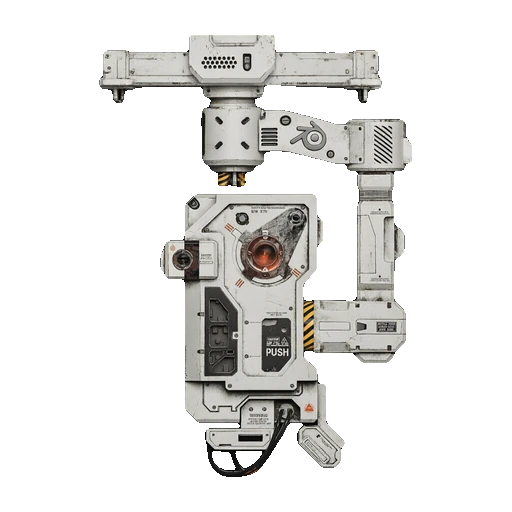
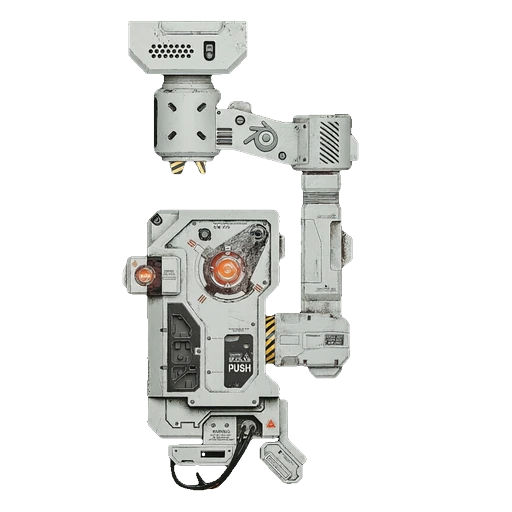
feat(moss): 真正的关节转动（同机位三帧硬切换）
- 用一张三格 sprite 生成同机位、同比例、只有机械臂角度不同的三帧（收拢/抬高/前伸）
- rembg 抠图后用三格并集 bbox 统一裁切，保证像素级对齐
- 空闲态 2.3s 在收拢/抬高之间硬切换（无淡入，不会重影）；执行态切前伸帧
- 定时器常驻（按 data-character 判定），不依赖 paint 时机
- 素材版本 v31

diff --git a/client/client.js b/client/client.js
@@ -37,7 +37,7 @@ window.__ModuleLoader__.load({
     var ROOT_ID = 'dsh-pet-liang-root'
     var POS_KEY = 'dsh-pet-liang:pos'
     /* 素材改了名字没变，加一个版本号强制浏览器重新取（宿主给的是 immutable 缓存） */
-    var ASSET_V = '29'
+    var ASSET_V = '31'
     var STYLE_ID = 'dsh-pet-liang-style'
 
     /** 四档推理等级对应的称呼与氛围色。 */
@@ -403,6 +403,35 @@ window.__ModuleLoader__.load({
       })
     }
 
+    /* MOSS 关节动画：三帧同机位硬切换（无淡入，不会重影） */
+    var jointTimer = null
+    var jointPhase = 0
+    var JOINT_MS = 2300
+
+    function stopJoint() {
+      if (jointTimer) {
+        clearInterval(jointTimer)
+        jointTimer = null
+      }
+      jointPhase = 0
+    }
+
+    function startJoint() {
+      if (jointTimer) return
+      jointTimer = setInterval(function () {
+        if (!overlay) return
+        var char = overlay.getAttribute('data-character')
+        var working = overlay.getAttribute('data-working') === '1'
+        if (char !== 'moss' || working) return
+        var fig = overlay.querySelector('.figure')
+        if (!fig) return
+        jointPhase = jointPhase ? 0 : 1
+        var next = jointPhase ? 'moss-idle-b.webp' : 'moss-idle-a.webp'
+        fig.src = assetUrl(next)
+        fig.setAttribute('data-asset', next)
+      }, JOINT_MS)
+    }
+
     function buildOverlay() {
       ensureStyle()
       var existing = document.getElementById(ROOT_ID)
@@ -460,7 +489,12 @@ window.__ModuleLoader__.load({
         }
       })
 
+      ;['moss-idle-a.webp', 'moss-idle-b.webp', 'moss-work.webp'].forEach(function (name) {
+        try { var img = new Image(); img.src = assetUrl(name) } catch (e) { /* noop */ }
+      })
+
       document.body.appendChild(root)
+      startJoint()
       restorePosition(root)
       bindDrag(root)
       overlay = root
@@ -506,6 +540,8 @@ window.__ModuleLoader__.load({
       if (aura) aura.style.background = 'radial-gradient(circle,' + state.aura + ' 0%, transparent 68%)'
       if (aura) aura.style.opacity = String(0.3 + state.glow * 0.55)
 
+
+      startJoint()
 
       if (!figure) return
       var nextChar = state.character
